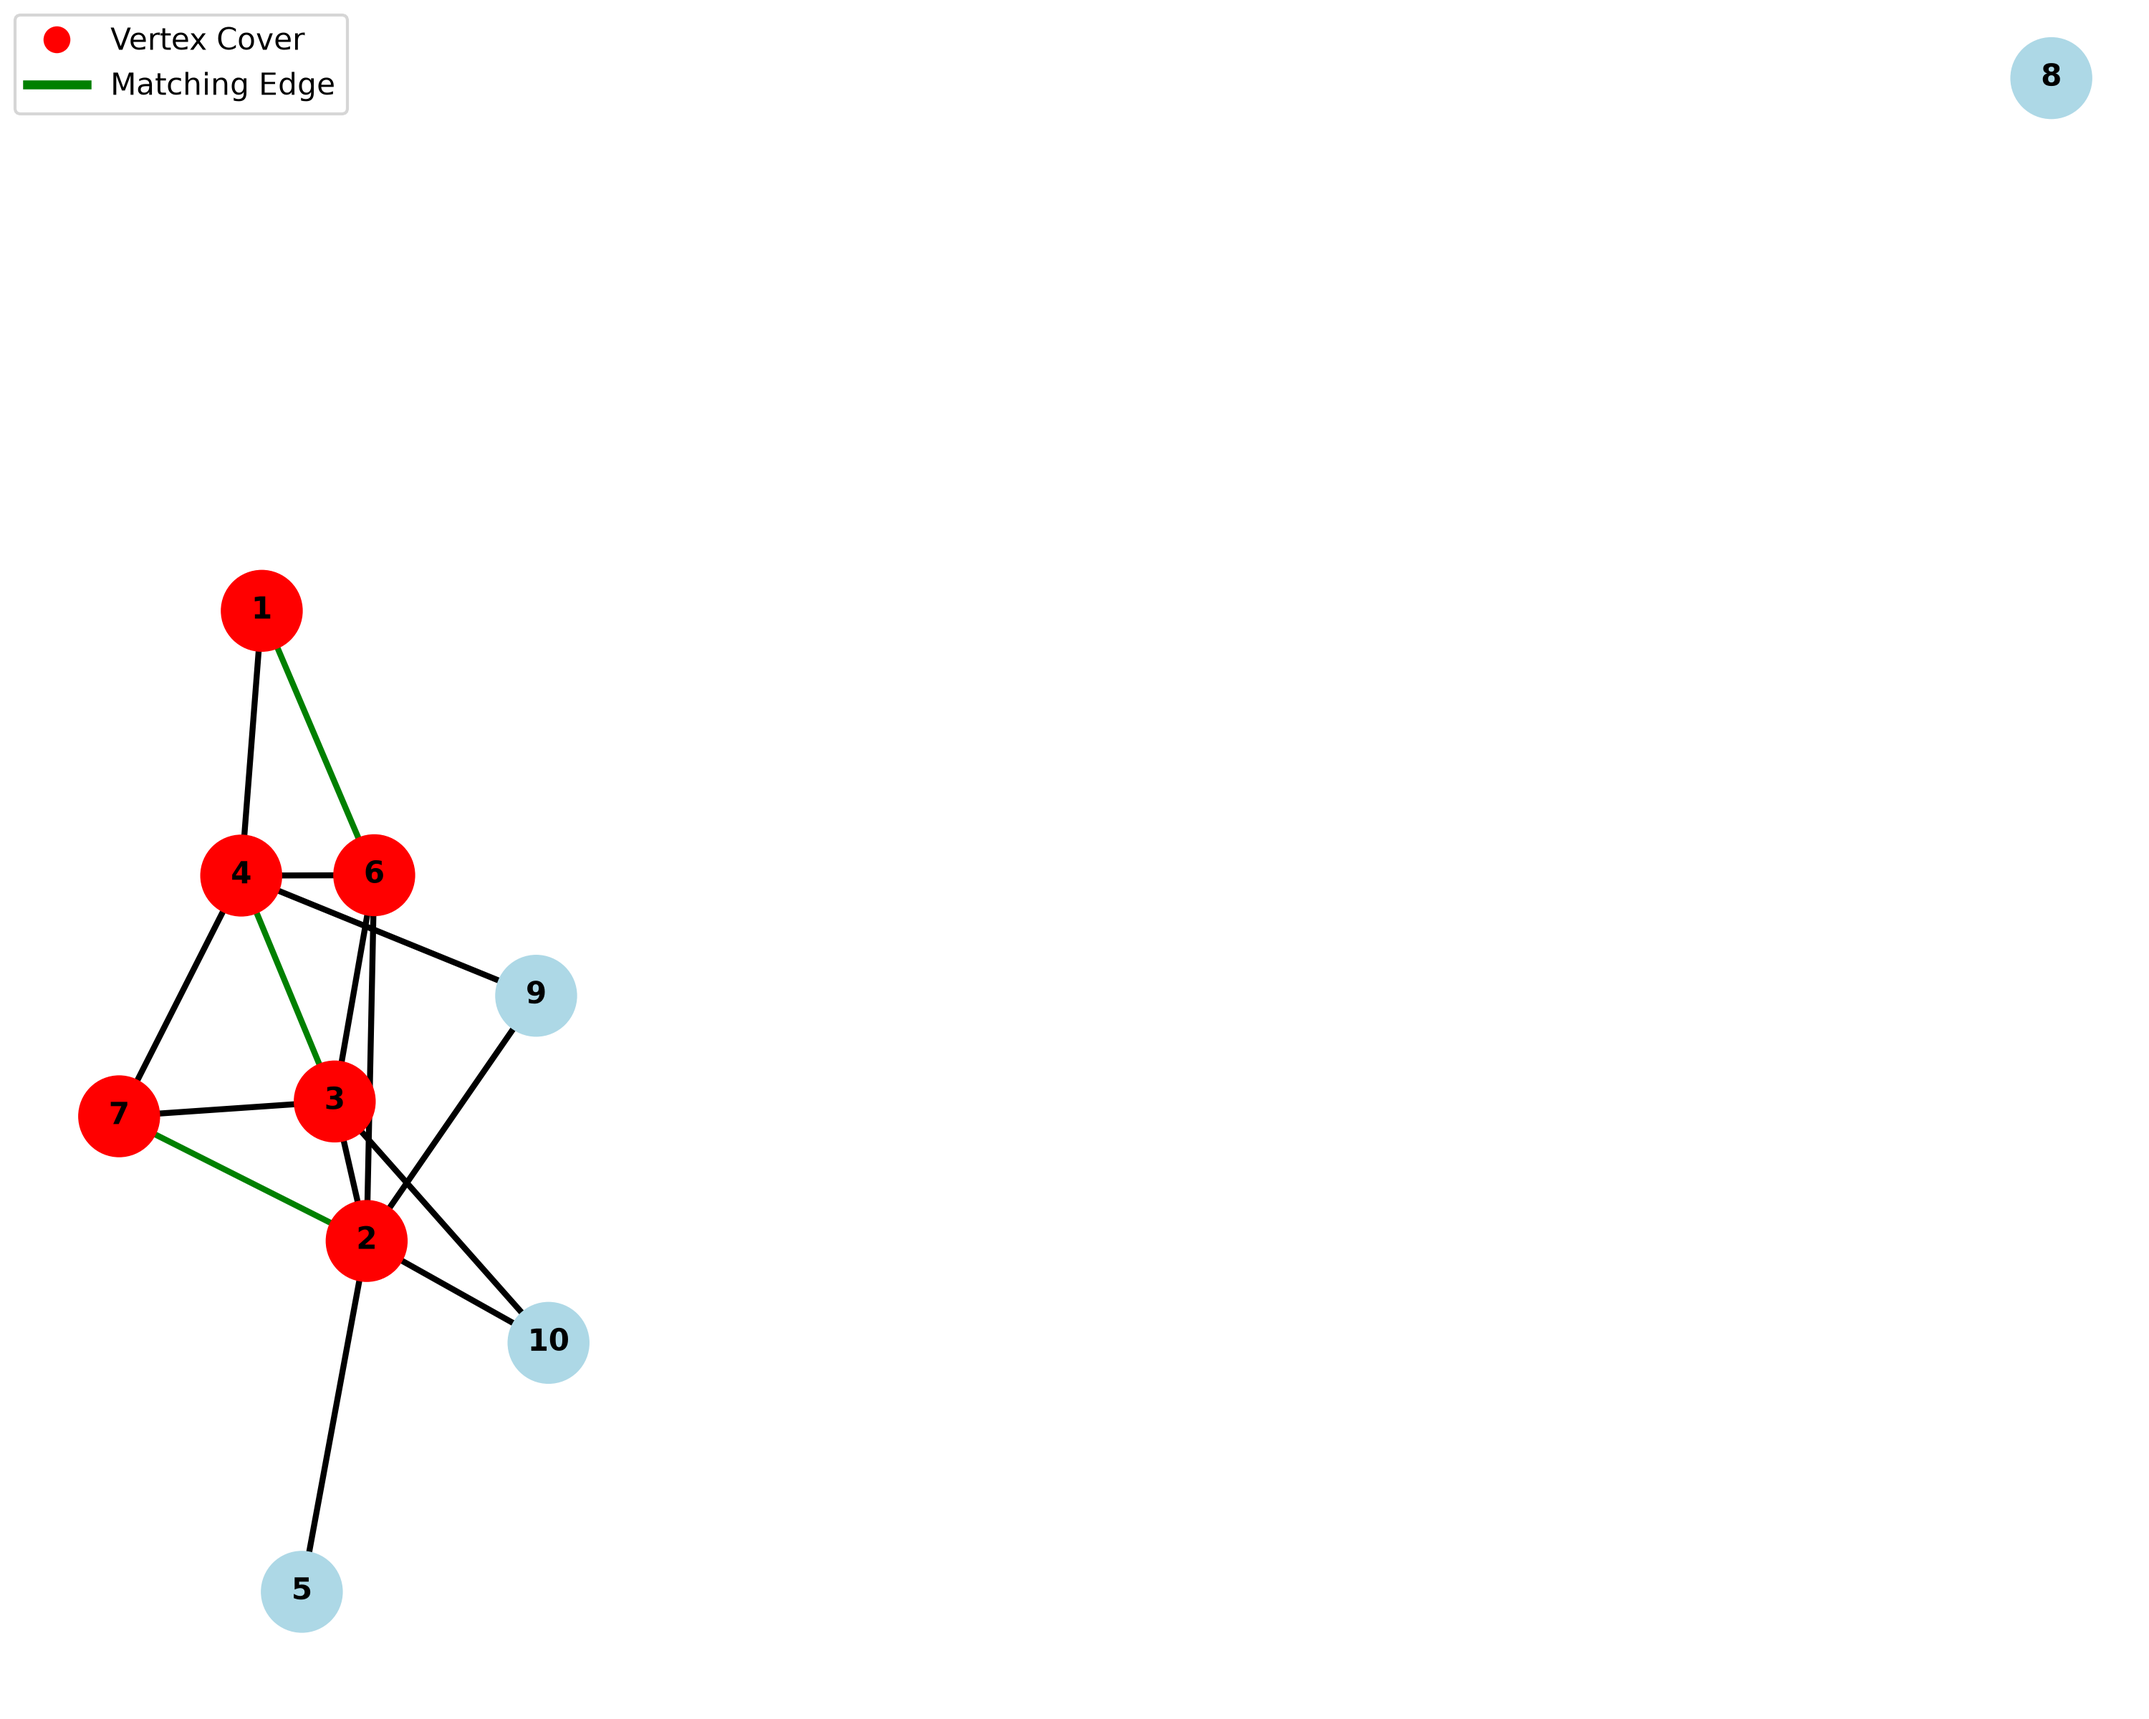
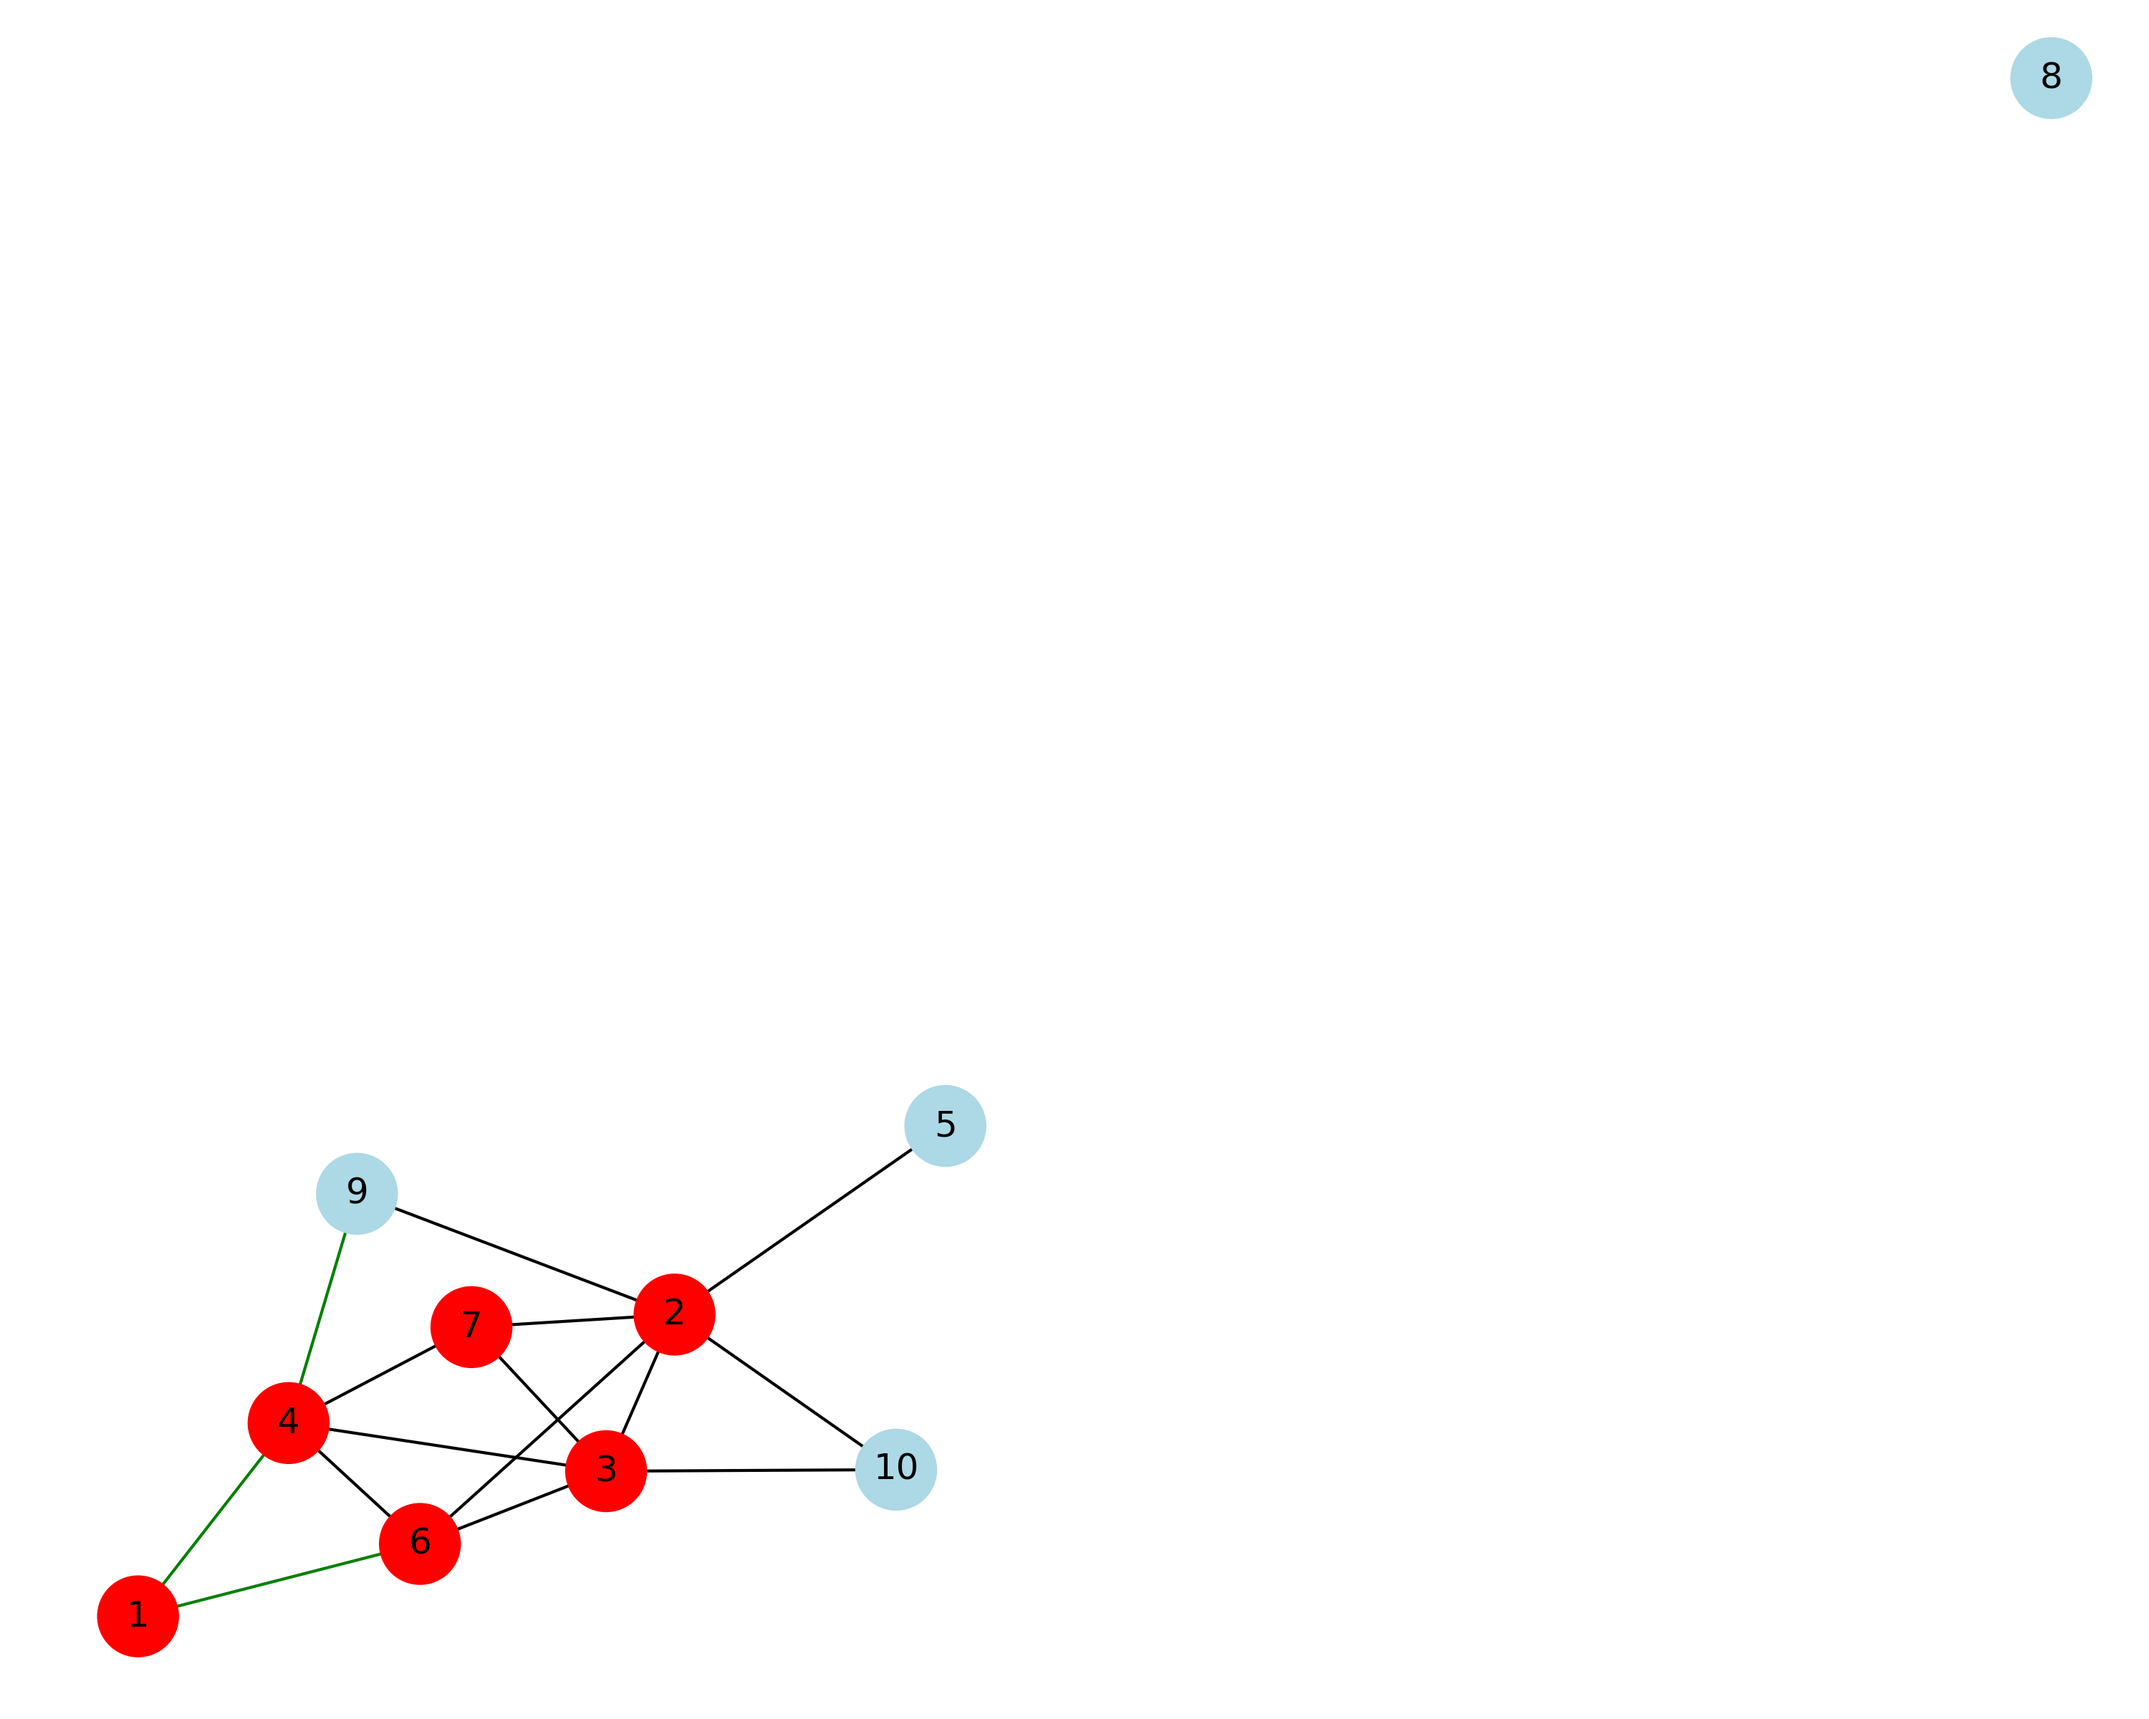
input and output automation

diff --git a/Practical_2/approximation_vc.py b/Practical_2/approximation_vc.py
@@ -5,7 +5,7 @@ from matplotlib.lines import Line2D
 import time
 import csv
 
-def maximal_matching(edges):
+def approximation_algo(edges):
     match = []
     vc = []
 
@@ -14,14 +14,15 @@ def maximal_matching(edges):
             vc.append(u)
             vc.append(v)
             match.append((u,v))
-
     return vc, match
 
-
+def approximation_factor(vc, opt_size):
+    return round(len(vc) / opt_size,3)
 
 def read_input(i):
     edges = []
-    with open(f'../Practical_1/Input/input{i}.txt', 'r') as f:
+    # with open(f'../Practical_1/Input/input{i}.txt', 'r') as f:
+    with open(f'Input/input{i}.txt', 'r') as f:
         lines = f.readlines()
         n, m = map(int, lines[0].split())
 
@@ -32,12 +33,12 @@ def read_input(i):
             edges.append((u,v))
     return n, m, edges
 
-def csv_update(rows, n, m, vc, size, time):
+def csv_update(rows, n, m, size, time, factor):
     for row in rows[1:]:
         if row[0] == str((n,m)):
-            row[4] = vc
-            row[5] = size
-            row[6] = time
+            row[3] = size
+            row[4] = time
+            row[5] = factor
             break
 
 def create_graph(match, vc, n, m, i, edges):
@@ -48,46 +49,27 @@ def create_graph(match, vc, n, m, i, edges):
     G.add_nodes_from(range(1, n + 1))
     G.add_edges_from(edges)
 
-    vc_set = set(vc)
+    node_color = []
+    for node in G.nodes:
+        if node in vc:
+            node_color.append('red') 
+        else:
+            node_color.append('lightblue')
 
-    node_colors = ["red" if node in vc_set else "lightblue" for node in G.nodes() ]
-
-    match_set = {tuple(sorted(edge)) for edge in match}
-
-    edge_colors = [
-        "green" if tuple(sorted(edge)) in match_set else "black"
-        for edge in G.edges()
-    ]
-
-    # pos = nx.circular_layout(G)
-
+    edge_color = []
+    for edge in edges:
+        if edge in match:
+            edge_color.append('green')
+        else:
+            edge_color.append('black')
+    
     plt.figure(figsize=(10, 8))
-
-    nx.draw( G, with_labels=True, node_color=node_colors, edge_color=edge_colors, node_size=700, font_size=10, font_weight="bold", width=2)
+    nx.draw(G, with_labels=True, node_color=node_color, edge_color=edge_color, node_size=700)
 
     plt.title(
         f"Graph {i} | n={n}, m={m}\n"
         f"Vertex Cover = {vc} | Matching Size = {len(match)}"
     )
-
-    legend_elements = [
-        Line2D(
-            [0], [0],
-            marker="o",
-            color="w",
-            label="Vertex Cover",
-            markerfacecolor="red",
-            markersize=10
-        ),
-        Line2D(
-            [0], [0],
-            color="green",
-            lw=3,
-            label="Matching Edge"
-        )
-    ]
-
-    plt.legend(handles=legend_elements)
 
     output_file = os.path.join('output', f"graph_{i}.png")
     plt.savefig(output_file,dpi=300)
@@ -96,29 +78,45 @@ def create_graph(match, vc, n, m, i, edges):
 
 
 def main():
-    with open('../Practical_1/result.csv','r',newline='') as f:
-            rows = list(csv.reader(f))
+    # with open('../Practical_1/result.csv','r',newline='') as f:
+    with open('result.csv', 'r', newline='') as f:
+        rows = list(csv.reader(f))
     
-    if 'Approximation_vc' not in rows[0]:
-        rows[0].extend(['Approximation_vc', 'Size', 'Execution_Time'])
+    if 'Vertex Cover' in rows[0]:
+        for row in rows:
+            del row[1]
+
+    
+    if 'Approximation_size' not in rows[0]:
+        rows[0].extend(['vc_size(approx.)', 'Execution_Time', 'Approximation_Factor'])
     
         for row in rows[1:]:
                 row.extend(['', '', ''])
 
     for i in range(1,9):
         n, m, edges = read_input(i)
+        optimal_size = None
+
+        for row in rows[1:]:
+            if row[0] == str((n, m)):
+                optimal_size = int(row[1])
+                break
         
         st_time = time.perf_counter()
-        vc, match = maximal_matching(edges)
+        vc, match = approximation_algo(edges)
         end_time = time.perf_counter()
 
-        execution_time = (end_time-st_time)*1000
+        execution_time = round((end_time-st_time)*1000,4)
 
-        csv_update(rows, n,m,vc, len(vc), execution_time)
+        factor = approximation_factor(vc, optimal_size)
+
+        csv_update(rows, n,m,len(vc), execution_time, factor)
 
         create_graph( match, vc, n, m, i, edges)
 
-    with open('../Practical_1/result.csv', 'w', newline='') as f:
+
+    # with open('../Practical_1/result.csv', 'w', newline='') as f:
+    with open('result.csv', 'w', newline='') as f:
         w = csv.writer(f)
         w.writerows(rows)
 
